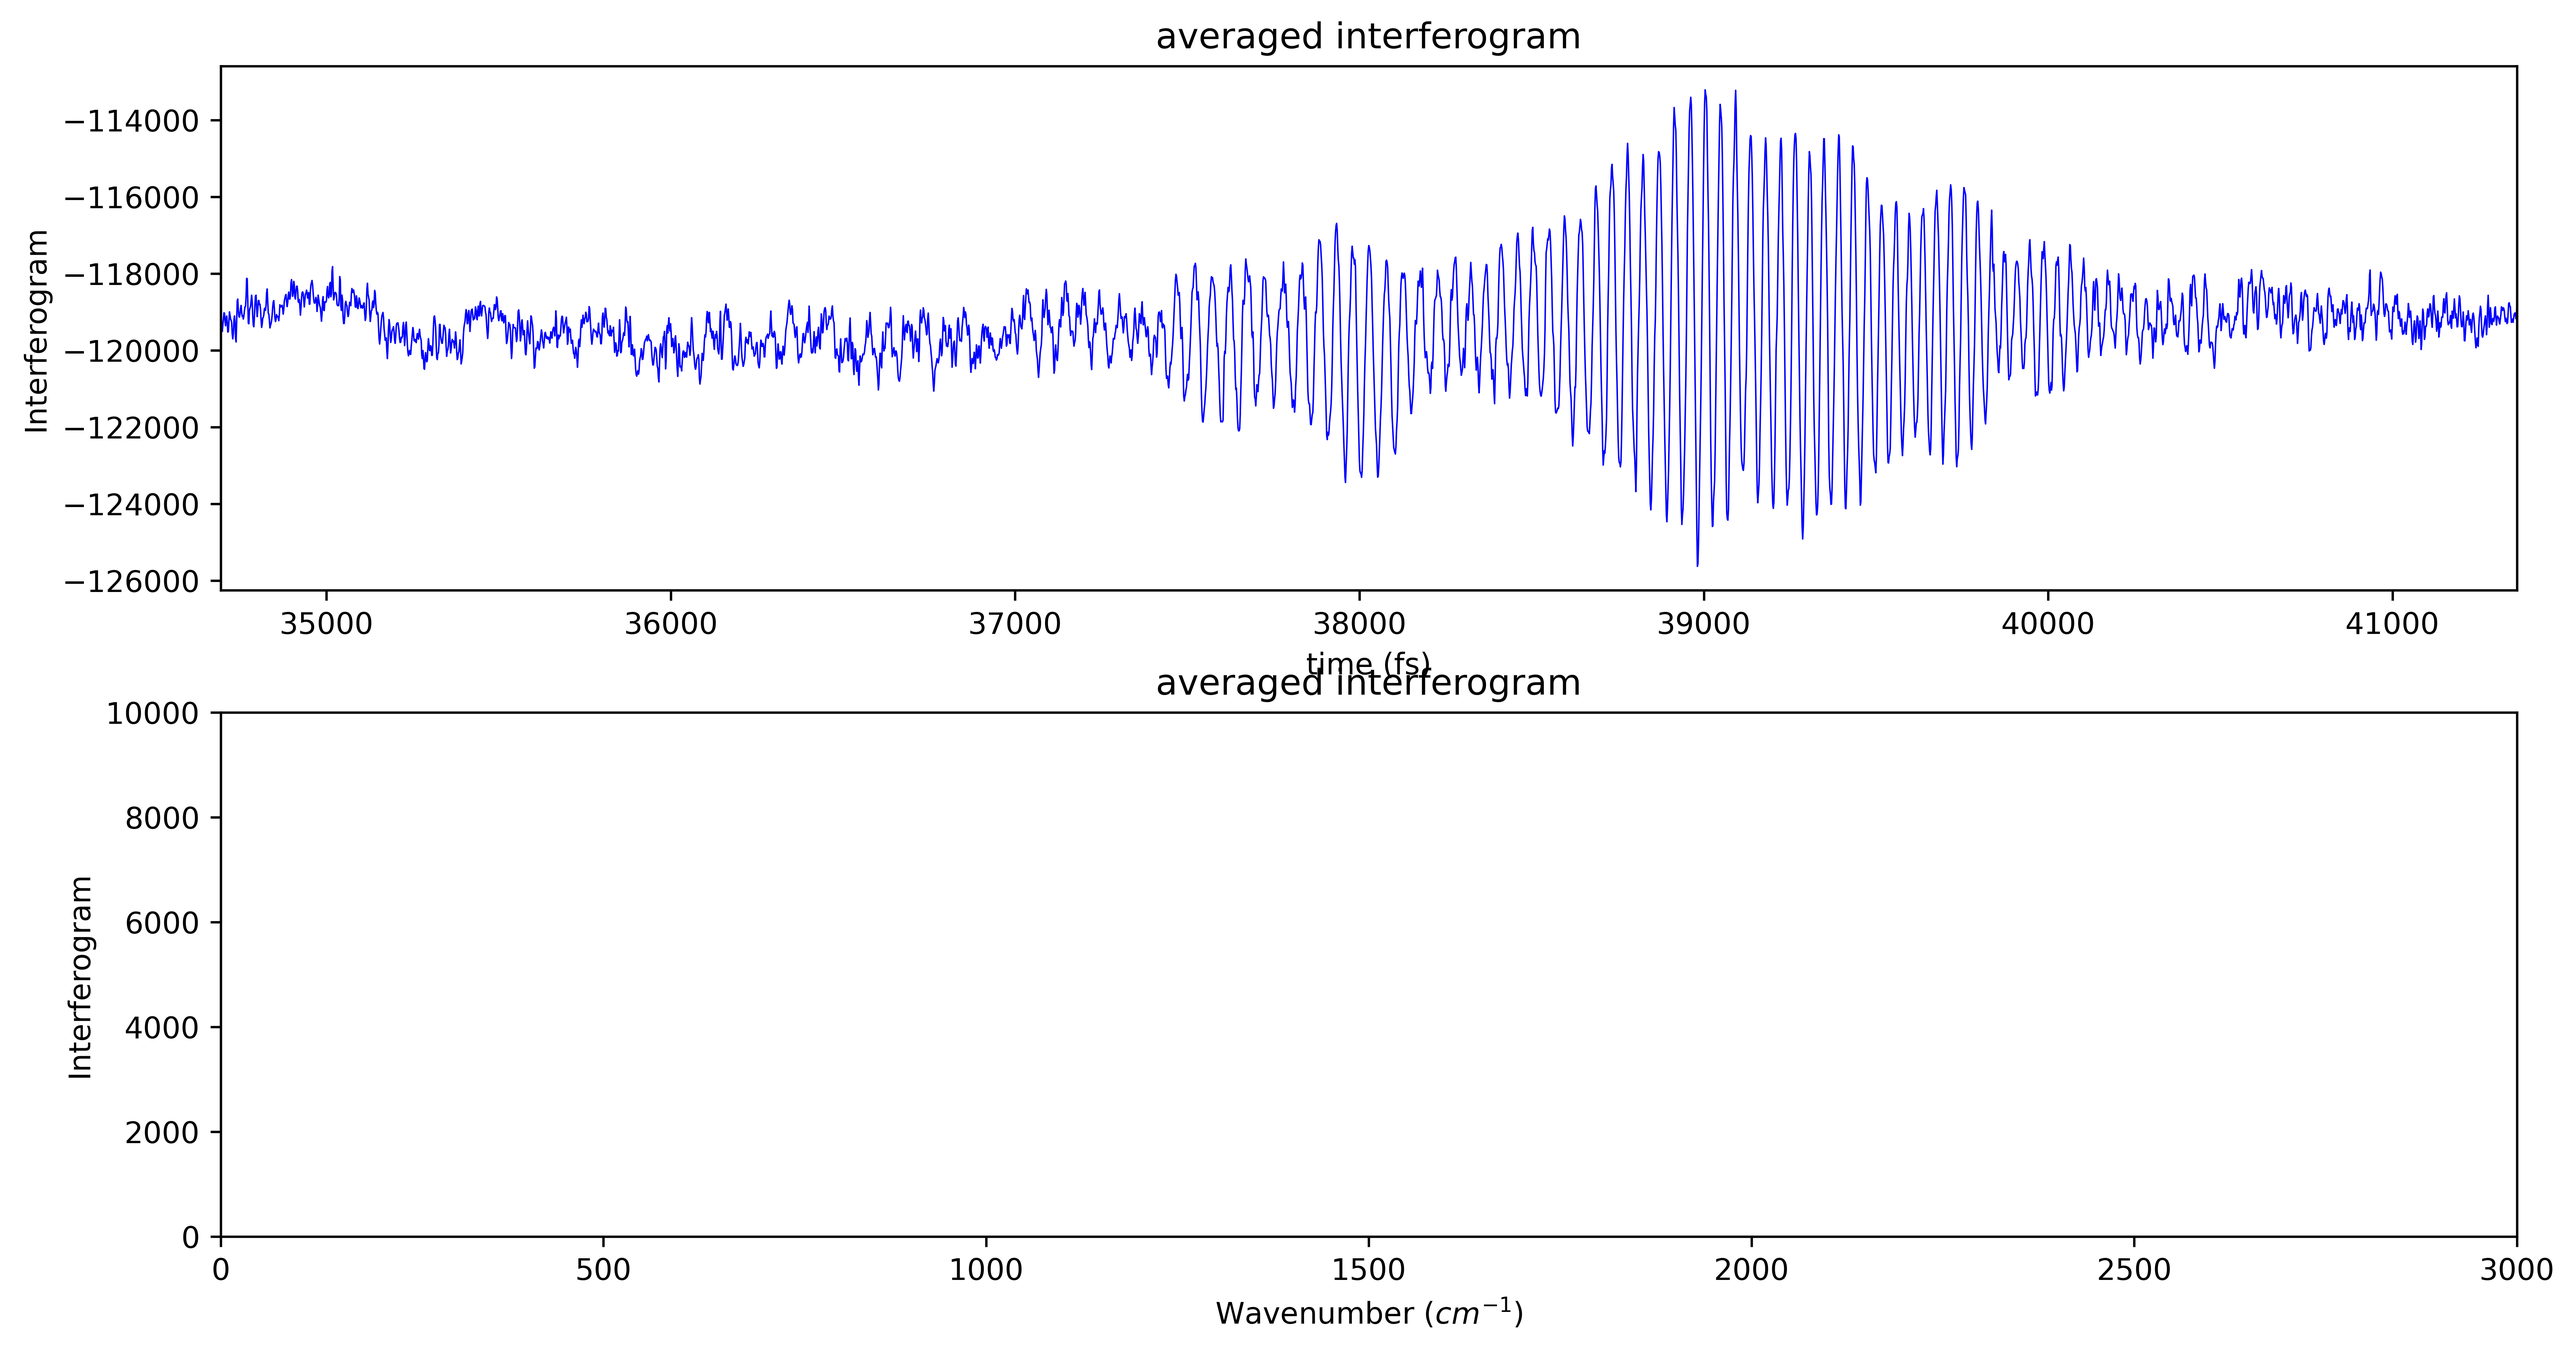
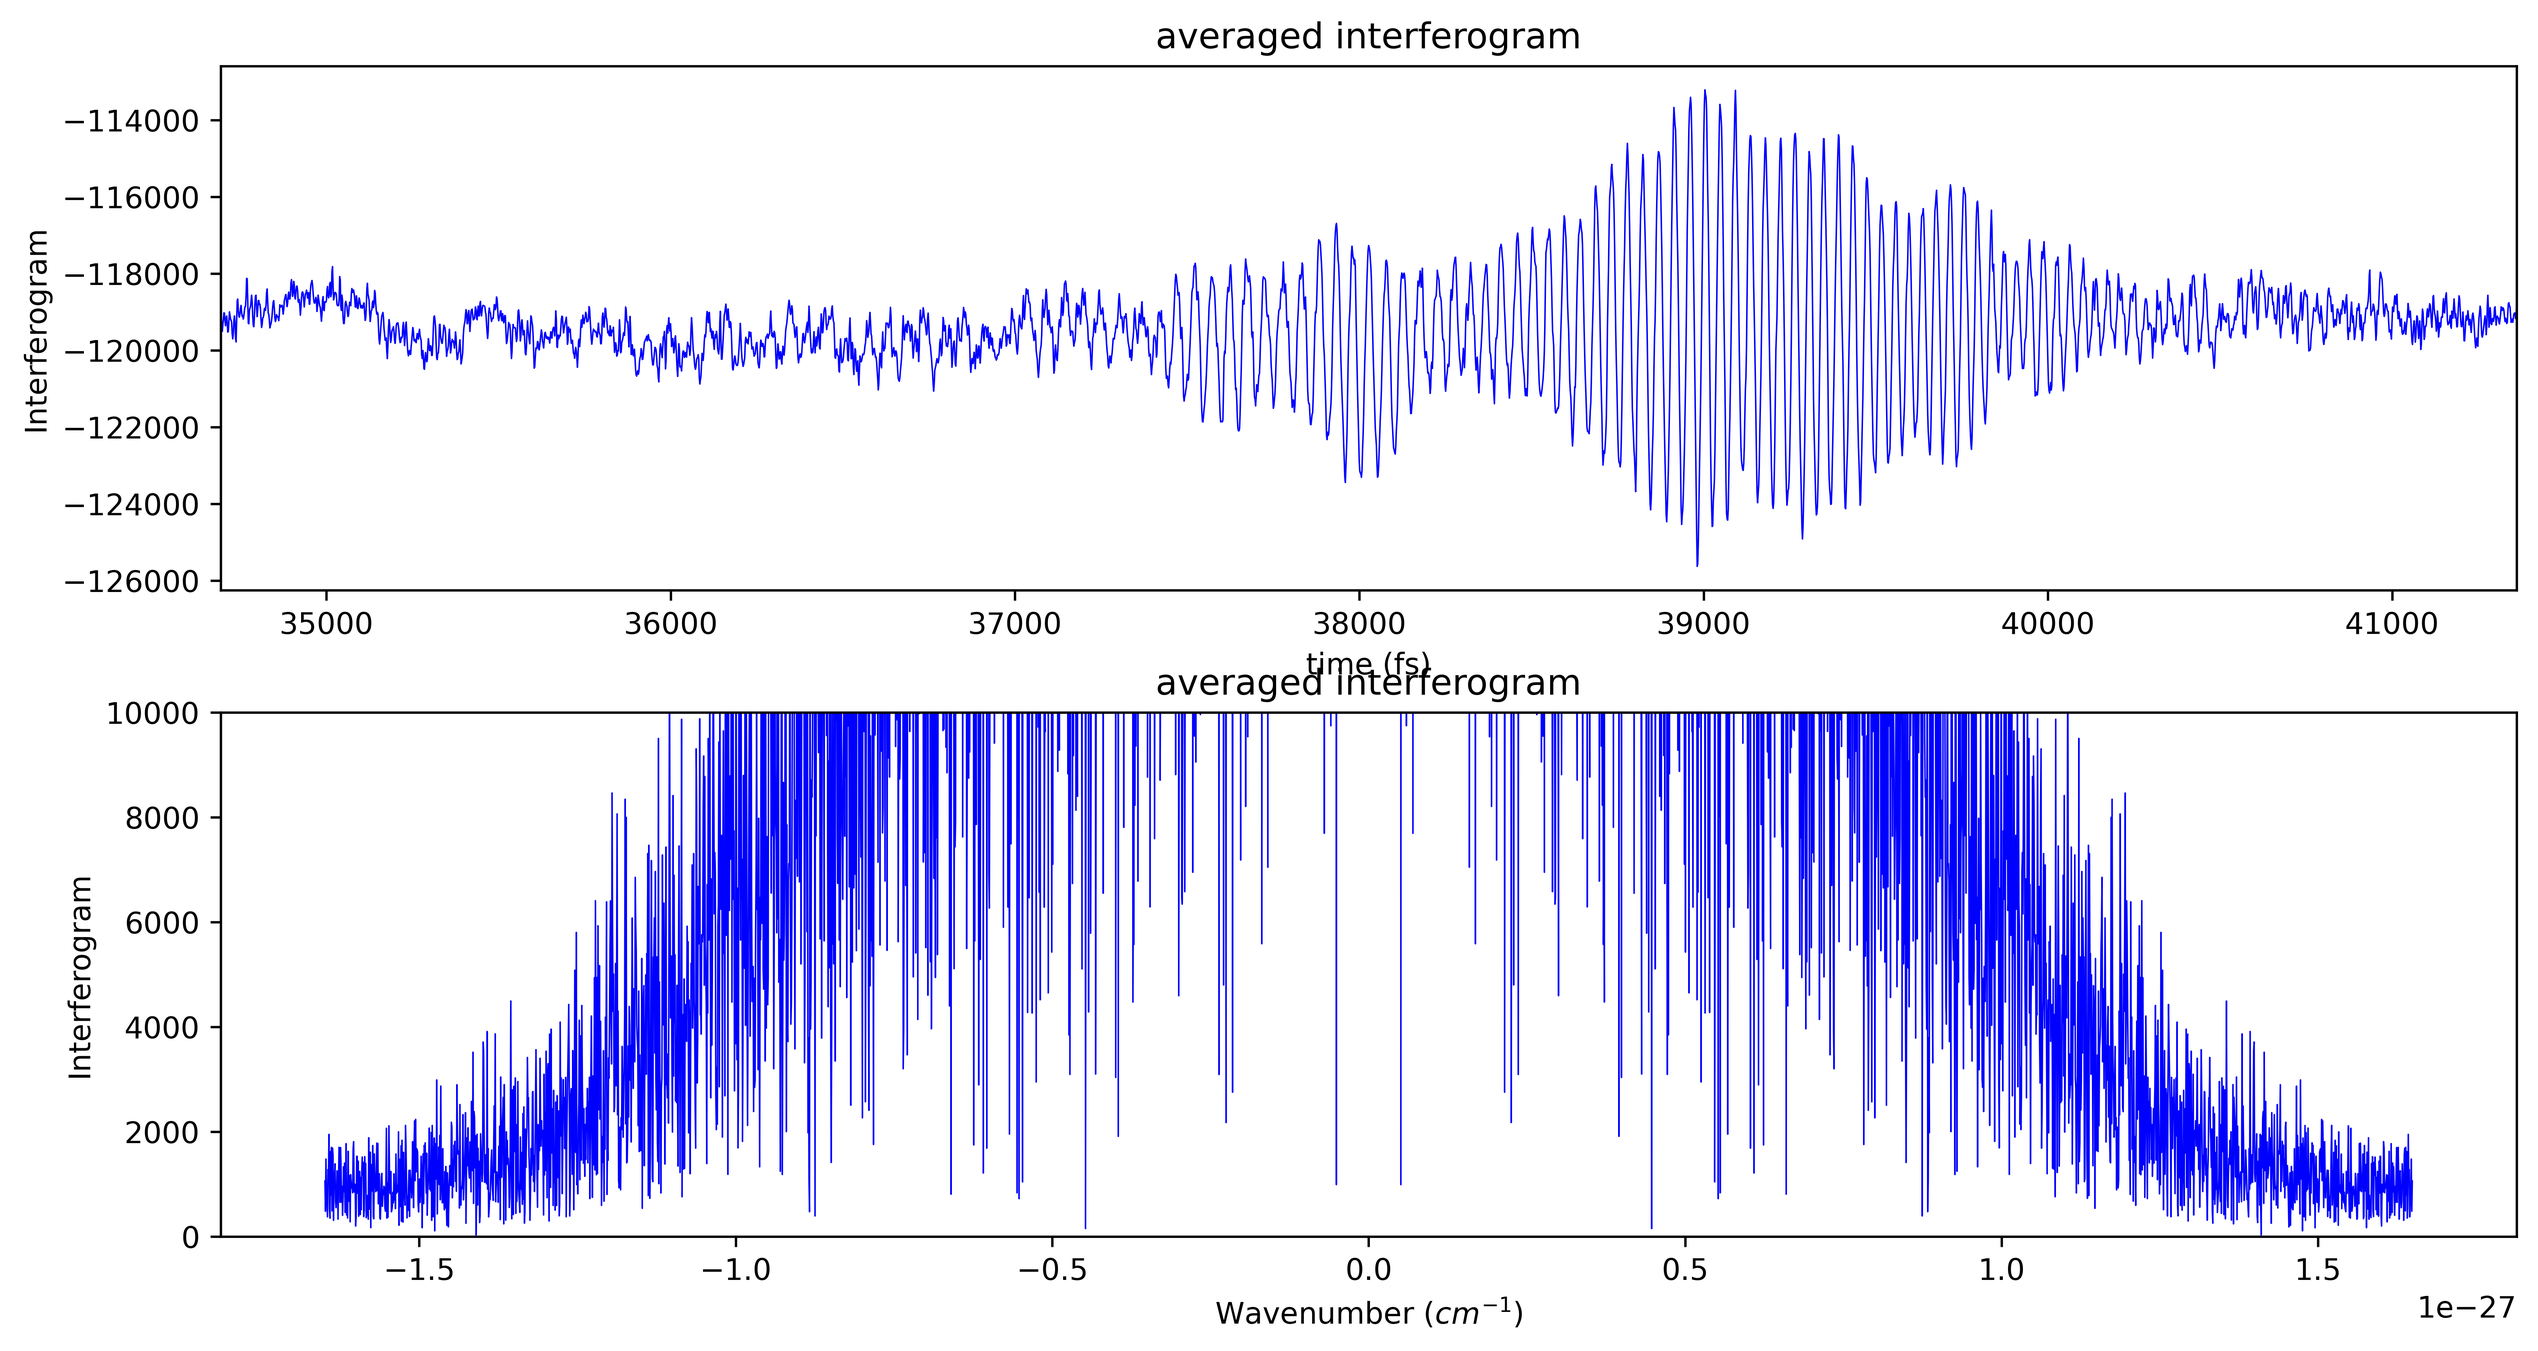
increased resolution

diff --git a/interf_plot.py b/interf_plot.py
@@ -89,7 +89,7 @@ def main(args):
     ax.plot(w_fft, mct_fft, 'b-', lw=lw)
     ax.set(xlabel='Wavenumber ($cm^{-1}$)')
     ax.set(ylabel='Interferogram')
-    plt.xlim(left=0, right=3000)
+    #plt.xlim(left=0, right=3000)
     plt.ylim(bottom=0, top=1e4)
 
     fs = 8 #default fontsize
